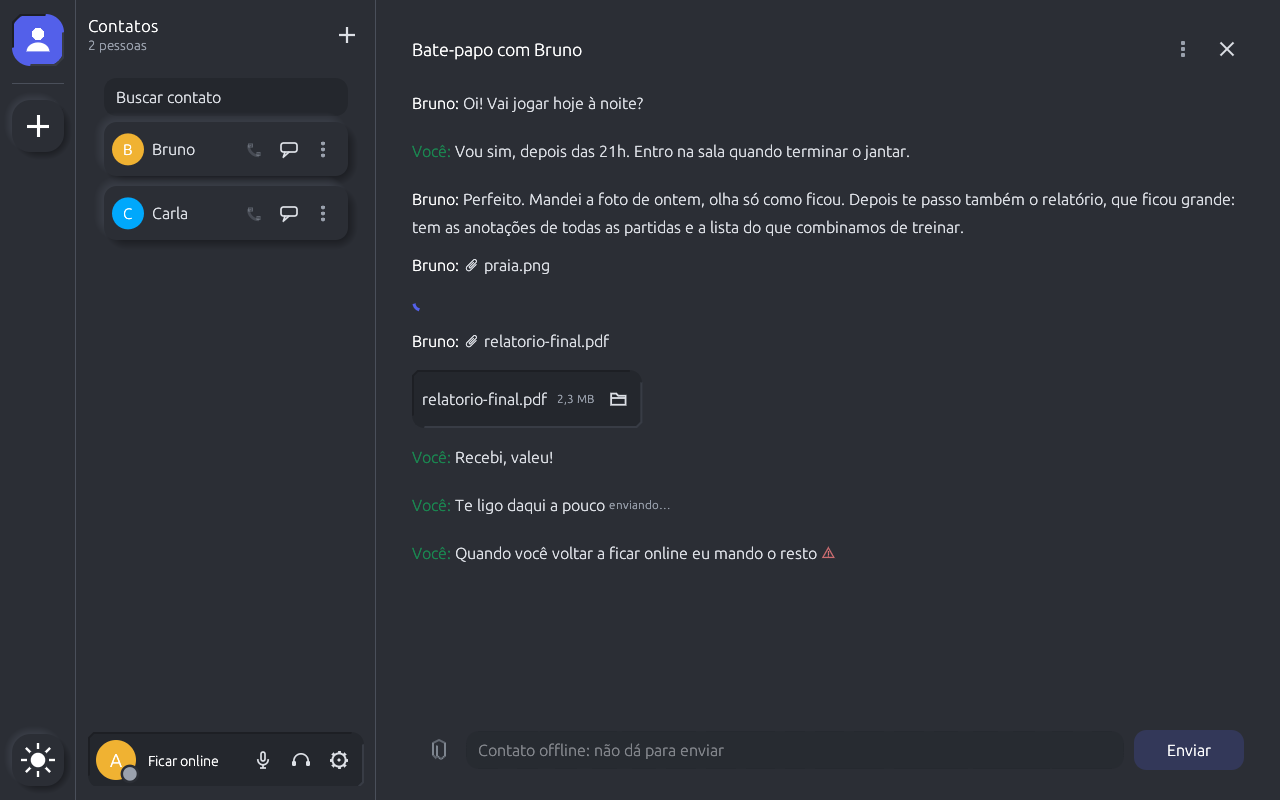
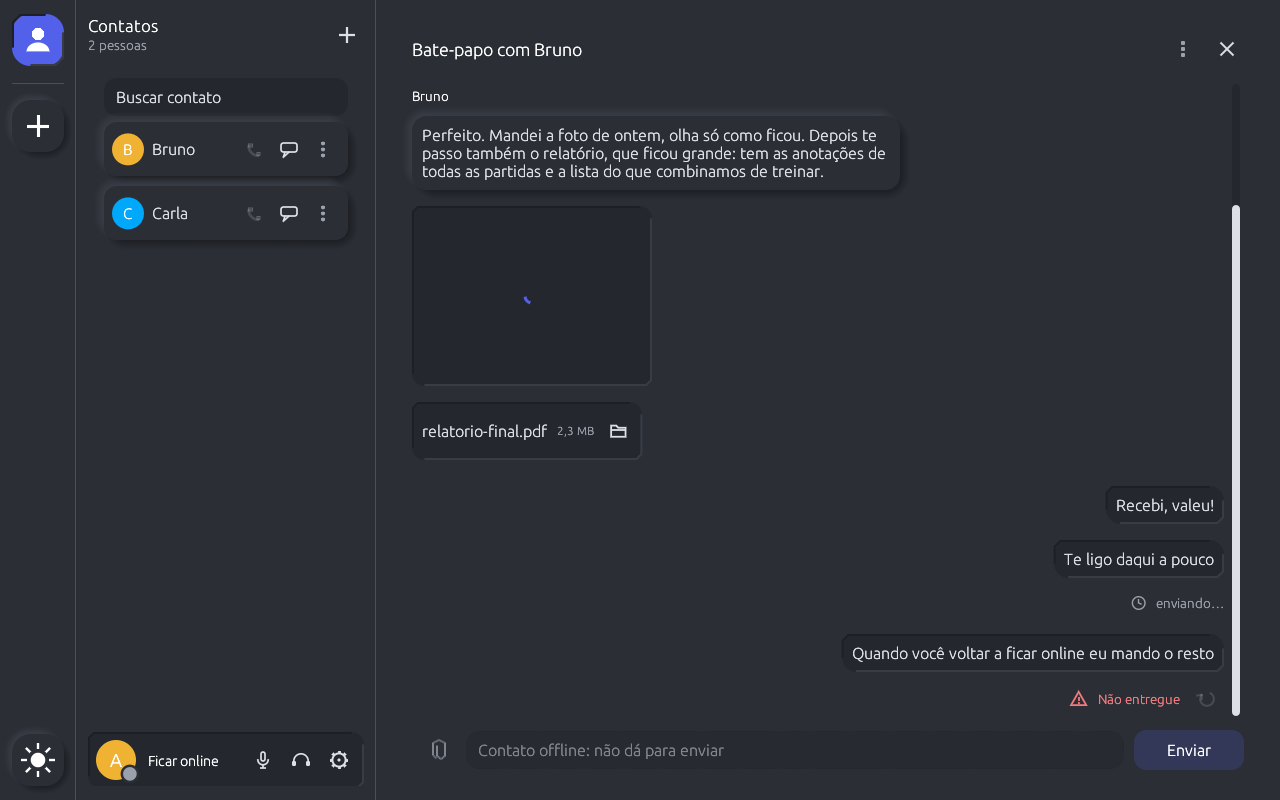
Bate-papo com forma: minha fala à direita e afundada, a do contato em relevo, sequência por autor, anexo sem linha repetida, miniatura com espaço reservado e falha de envio com saída
Verde de "ao vivo/ok" não serve de autoria (e não passa de AA no escuro): o lado e o relevo dizem quem falou.
Mensagem que falhou ganha aviso legível e "Enviar de novo", que descarta a cópia falha.

diff --git a/examples/gui/conversa.rs b/examples/gui/conversa.rs
@@ -6,6 +6,22 @@ use eframe::egui::{self, RichText, vec2};
 
 use crate::{arquivos::{Phase, size_text}, chats::State, engine::*, theme::*, ui::*};
 
+/// Largura máxima do balão (pt), perto de 70 caracteres: linha mais longa cansa a leitura.
+const BUBBLE_MAX: f32 = 520.0;
+/// Espaço entre mensagens seguidas do mesmo autor e entre autores (pt).
+const MSG_GAP: f32 = 6.0;
+const RUN_GAP: f32 = 16.0;
+
+/// Balão da mensagem. Minha fala fica à direita e afundada; a do contato, à esquerda e em relevo. O lado e a forma
+/// dizem quem falou sem depender de cor.
+fn bubble(ui: &mut egui::Ui, mine: bool, add: impl FnOnce(&mut egui::Ui)) {
+    let side = if mine { egui::Align::Max } else { egui::Align::Min };
+    ui.with_layout(egui::Layout::top_down(side), |ui| {
+        ui.set_max_width(ui.available_width().min(BUBBLE_MAX));
+        if mine { sunken_frame(ui, 14, 10, add) } else { raised_frame(ui, 14, 10, add) };
+    });
+}
+
 impl App {
     /// A conversa com `peer`. `online`: o contato está de pé agora (ou em chamada comigo), então dá para enviar.
     pub(crate) fn chat_panel(&mut self, ui: &mut egui::Ui, peer: [u8; 32], online: bool) {
@@ -24,6 +40,7 @@ impl App {
         }
         let xfers = self.shared.transfers.lock_unpoisoned().of(&peer);
         let mut file_cmds: Vec<Cmd> = Vec::new();
+        let mut retry: Option<(Vec<u64>, String)> = None;
         // Sem cartão, como o bate-papo da sala: título, mensagens até o pé da janela e a linha de envio embaixo.
         ui.add_space(4.0);
         ui.scope(|ui| {
@@ -58,9 +75,12 @@ impl App {
                 if msgs.is_empty() {
                     note(ui, "Sem mensagens ainda.");
                 }
+                // Cada autor fala em seu lado; mensagens seguidas do mesmo autor formam uma sequência com o nome uma vez só.
+                let mut prev: Option<bool> = None;
                 for g in crate::chats::groups(&msgs) {
                     let parts = msgs.get(g).unwrap_or_default();
                     let Some(m) = parts.first() else { continue };
+                    let mine = m.mine();
                     // Pedaços de um texto longo aparecem como uma mensagem só; o estado é o pior entre eles.
                     let text: String = parts.iter().map(|p| p.text.as_str()).collect();
                     let state = if parts.iter().any(|p| p.state == State::Failed) {
@@ -70,31 +90,54 @@ impl App {
                     } else {
                         m.state
                     };
-                    ui.horizontal_wrapped(|ui| {
-                        ui.spacing_mut().item_spacing.x = 4.0;
-                        let (who, color) = if m.mine() { ("Você", pal().green) } else { (name.as_str(), pal().strong) };
-                        ui.label(RichText::new(format!("{who}:")).strong().color(color));
-                        ui.label(RichText::new(text).color(pal().text));
-                        if let Some(x) = xfers.iter().find(|x| x.id == m.id && x.mine == m.mine() && x.phase.live()) {
-                            file_progress(ui, x, &mut file_cmds);
-                            return;
-                        }
-                        match state {
-                            State::Sending => ui.label(RichText::new("enviando…").size(12.0).color(pal().muted)),
-                            State::Failed => {
-                                // Discreto: um triângulo pequeno no tom do erro, sem texto; o motivo fica no hover.
-                                let (rect, r) = ui.allocate_exact_size(vec2(14.0, 14.0), egui::Sense::hover());
-                                r.widget_info(|| egui::WidgetInfo::labeled(egui::WidgetType::Label, true, "Não entregue"));
-                                alert_icon(ui.painter(), rect.center(), 13.0, pal().error.gamma_multiply(0.8));
-                                r.on_hover_text("Não entregue: o contato não confirmou, estava offline ou sem rota. Não há caixa de correio; envie de novo quando ele voltar.")
-                            }
-                            State::Sent | State::Received => ui.label(""),
-                        };
-                    });
+                    let side = if mine { egui::Align::Max } else { egui::Align::Min };
+                    let new_run = prev != Some(mine);
+                    if prev.is_some() {
+                        ui.add_space(if new_run { RUN_GAP } else { MSG_GAP });
+                    }
+                    prev = Some(mine);
+                    if new_run && !mine {
+                        ui.label(RichText::new(name.as_str()).size(13.0).strong().color(pal().strong));
+                        ui.add_space(2.0);
+                    }
+                    let live = xfers.iter().find(|x| x.id == m.id && x.mine == mine && x.phase.live());
                     // Imagem à vista, vídeo com play e cartão com baixar, quando o arquivo já está no disco.
-                    if let Some(x) = xfers.iter().find(|x| x.id == m.id && x.mine == m.mine() && x.media_path().is_some())
-                    {
-                        crate::midia::show(ui, x);
+                    let media = xfers.iter().find(|x| x.id == m.id && x.mine == mine && x.media_path().is_some());
+                    // A linha "📎 nome" do histórico é só o rastro do anexo: com o cartão ou a imagem à vista, repeti-la é ruído.
+                    let trace = text.starts_with("📎 ") && media.is_some();
+                    if !trace {
+                        bubble(ui, mine, |ui| {
+                            ui.label(RichText::new(text.as_str()).color(pal().text));
+                            if let Some(x) = live {
+                                ui.horizontal(|ui| file_progress(ui, x, &mut file_cmds));
+                            }
+                        });
+                    }
+                    if let Some(x) = media {
+                        ui.add_space(if trace { 0.0 } else { MSG_GAP });
+                        ui.with_layout(egui::Layout::top_down(side), |ui| crate::midia::show(ui, x));
+                    }
+                    if live.is_none() && mine && matches!(state, State::Sending | State::Failed) {
+                        ui.allocate_ui_with_layout(vec2(ui.available_width(), 30.0), egui::Layout::right_to_left(egui::Align::Center), |ui| {
+                            if state == State::Sending {
+                                ui.label(RichText::new("enviando…").size(13.0).color(pal().muted));
+                                let (rect, _) = ui.allocate_exact_size(vec2(14.0, 14.0), egui::Sense::hover());
+                                clock_icon(ui.painter(), rect.center(), 14.0, pal().muted);
+                            } else {
+                                // Falha à vista e com saída: o motivo escrito, o aviso desenhado e o botão de tentar de novo.
+                                let again = ui.add_enabled_ui(sendable, |ui| {
+                                    glyph_button(ui, "Enviar de novo", "Enviar de novo: tira esta mensagem e manda o texto outra vez. Só com o contato online", Some(pal().error), retry_icon)
+                                });
+                                if again.inner.clicked() {
+                                    retry = Some((parts.iter().map(|p| p.id).collect(), text.clone()));
+                                }
+                                let why = "Não entregue: o contato não confirmou, estava offline ou sem rota. Não há caixa de correio; envie de novo quando ele voltar.";
+                                ui.add(egui::Label::new(RichText::new("Não entregue").size(13.0).color(pal().error)).selectable(false).sense(egui::Sense::hover())).on_hover_text(why);
+                                let (rect, r) = ui.allocate_exact_size(vec2(18.0, 18.0), egui::Sense::hover());
+                                r.widget_info(|| egui::WidgetInfo::labeled(egui::WidgetType::Label, true, "Não entregue"));
+                                alert_icon(ui.painter(), rect.center(), 18.0, pal().error);
+                            }
+                        });
                     }
                 }
             });
@@ -137,6 +180,11 @@ impl App {
             for c in file_cmds {
                 let _ = r.cmds.send(c);
             }
+        }
+        // Reenviar tira a mensagem que falhou e manda o texto de novo: a conversa não fica com duas cópias.
+        if let (Some((ids, text)), Some(r)) = (retry, &self.running) {
+            self.shared.chats.lock_unpoisoned().discard(&peer, &ids);
+            let _ = r.cmds.send(Cmd::Chat(peer, text));
         }
         if erase {
             self.erase_chat(peer);

diff --git a/examples/gui/chats.rs b/examples/gui/chats.rs
@@ -85,6 +85,15 @@ impl ChatBook {
         }
     }
 
+    /// Tira as mensagens minhas `ids` da conversa (reenvio de uma que falhou).
+    pub(crate) fn discard(&mut self, peer: &[u8; 32], ids: &[u64]) {
+        if let Some(v) = self.chats.get_mut(peer) {
+            let before = v.len();
+            v.retain(|m| !(m.mine() && ids.contains(&m.id)));
+            self.dirty |= v.len() != before;
+        }
+    }
+
     /// Mensagem minha, a caminho.
     pub(crate) fn push_mine(&mut self, peer: [u8; 32], id: u64, text: String) {
         self.push(peer, Msg { id, text, state: State::Sending });
@@ -220,6 +229,22 @@ mod tests {
         assert!(!saved.contains(&hex(&a)) && saved.contains(&hex(&b)));
         book.forget(&a);
         assert!(book.take_dirty().is_none(), "sem conversa, nada a gravar");
+    }
+
+    #[test]
+    fn discarding_removes_only_my_messages_with_those_ids() {
+        let a = [1u8; 32];
+        let mut book = ChatBook::default();
+        book.push_mine(a, 5, "falhou".into());
+        book.push_received(a, 5, "do contato, mesmo id".into());
+        book.push_mine(a, 9, "fica".into());
+        book.take_dirty();
+        book.discard(&a, &[5]);
+        let left: Vec<_> = book.with(&a).iter().map(|m| m.text.as_str()).collect();
+        assert_eq!(left, ["do contato, mesmo id", "fica"]);
+        assert!(book.take_dirty().is_some(), "a remoção precisa chegar ao arquivo");
+        book.discard(&a, &[5]);
+        assert!(book.take_dirty().is_none(), "nada mudou, nada a gravar");
     }
 
     #[test]

diff --git a/examples/gui/theme.rs b/examples/gui/theme.rs
@@ -939,6 +939,23 @@ pub(crate) fn alert_icon(painter: &egui::Painter, center: Pos2, size: f32, color
     painter.circle_filled(u(0.0, 0.22), size * 0.05, color);
 }
 
+/// Seta circular (tentar de novo), desenhada: arco aberto no alto à direita com a ponta da seta.
+pub(crate) fn retry_icon(painter: &egui::Painter, center: Pos2, size: f32, color: Color32) {
+    let r = size * 0.34;
+    let ink = Stroke::new((size * 0.1).max(1.5), color);
+    // Do ângulo -60° (alto à direita) dando a volta por 280°, no sentido horário da tela.
+    let (start, sweep) = (-60.0_f32.to_radians(), 280.0_f32.to_radians());
+    let pts: Vec<Pos2> = (0..=24).map(|i| { let a = start + sweep * i as f32 / 24.0; center + vec2(a.cos(), a.sin()) * r }).collect();
+    let tip = pts.last().copied().unwrap_or(center);
+    painter.add(Shape::line(pts, ink));
+    // A ponta fecha o arco: dois traços saindo do fim.
+    let a = start + sweep;
+    let dir = vec2(-a.sin(), a.cos());
+    let side = vec2(a.cos(), a.sin());
+    painter.line_segment([tip, tip - dir * size * 0.2 + side * size * 0.16], ink);
+    painter.line_segment([tip, tip - dir * size * 0.2 - side * size * 0.16], ink);
+}
+
 /// Botão só com um ícone desenhado, sem moldura (lista de contatos, painel do usuário). `draw` pinta o ícone;
 /// `name` é o que o leitor de tela diz e `tip`, o hover; `color` fixa a tinta (sem ela: texto, e forte ao passar o mouse). Num
 /// `Ui` desligado o ícone apaga e não clica.

diff --git a/examples/gui/midia.rs b/examples/gui/midia.rs
@@ -215,7 +215,10 @@ fn image_block(ui: &mut egui::Ui, name: &str, path: &Path, key: Key) {
             }
         }
         Slot::Loading => {
-            ui.add(egui::Spinner::new().size(18.0).color(BLURPLE));
+            // Reserva o espaço da miniatura (4:3, a proporção mais comum) para a conversa não pular ao carregar.
+            let (rect, _) = ui.allocate_exact_size(vec2(SHOWN, SHOWN * 0.75), Sense::hover());
+            sunken(ui.painter(), rect, 12, pal().deep);
+            ui.put(egui::Rect::from_center_size(rect.center(), vec2(18.0, 18.0)), egui::Spinner::new().size(18.0).color(BLURPLE));
         }
         Slot::Failed => file_card(ui, name, 0, path, key),
     }

diff --git a/docs/GUI.md b/docs/GUI.md
@@ -90,7 +90,7 @@ Se nada chega por 8 s (a rede caiu ou mudou de Wi-Fi), a GUI dá a chamada como 
 
 **Quem recebe atende.** Uma chamada 1:1 de contato não conecta sozinha: toca ao lado do nome (cartão *Chamada recebida* na aba Chamada e a barra do pé da coluna, com 📞 para atender e o botão vermelho com o fone deitado, do mesmo tamanho, para recusar) até a pessoa responder ou passar 30 s, e só então o áudio e a tela abrem. Enquanto toca, outras chamadas são recusadas. Limite conhecido: se a linha cai e quem ligou religa sozinho, quem recebe precisa atender de novo. Entrar numa sala atende a malha sem tocar (é a mesma sala). Ao ligar, a subseção mostra "Chamando…" (sem o monitor) até a pessoa atender; o botão vermelho do fone cancela. O 📞 do contato só habilita com o contato online: o nó sonda cada contato da lista (um circuito por vez, a cada 60 s; `Dialer::is_online`) e um servidor em comum que o mostra online também vale. Antes da primeira sondagem o botão espera ("Verificando…"). Em chamada 1:1 (fora de sala), a mesma subseção da sala aparece acima do perfil: 📞 com o nome do contato e o estado ("Em chamada"; a qualidade da linha fica só na aba da chamada), o monitor que compartilha a sua tela e o botão vermelho do fone que desliga. Não existe mais o botão vermelho grande no perfil; o desligar do cartão "Em chamada" é o mesmo botão.
 
-**Bate-papo 1:1.** O 💬 do contato abre a conversa no centro (aba Chamada), com ou sem chamada; em chamada ela aparece sob o cartão da chamada, com quem está na linha. Só dá para enviar com o contato online (a mesma sondagem do 📞); offline, o campo fica desabilitado e o histórico continua à vista. A mensagem que o contato não confirmou fica marcada com um pequeno triângulo de aviso, sem texto; o hover diz "não entregue" (não há caixa de correio). O histórico é guardado nos dois lados, cada um na sua máquina (`.clam-gui.chats`), e **remover o contato apaga a conversa dos dois lados** (no outro, quando o aviso de remoção chega). Veja [CHAMADAS.md](CHAMADAS.md#bate-papo-11-mediaupdate-etiqueta-13).
+**Bate-papo 1:1.** O 💬 do contato abre a conversa no centro (aba Chamada), com ou sem chamada; em chamada ela aparece sob o cartão da chamada, com quem está na linha. Só dá para enviar com o contato online (a mesma sondagem do 📞); offline, o campo fica desabilitado e o histórico continua à vista. Cada um fala no seu lado: a minha fala fica à direita num balão afundado, a do contato à esquerda num balão em relevo, então quem falou não depende de cor (o verde fica só para "ao vivo/ok"). Mensagens seguidas do mesmo autor formam uma sequência (6 px entre elas, 16 px entre autores) e o nome do contato aparece uma vez no alto dela; o balão tem no máximo 520 pt (~70 caracteres por linha). O anexo entregue aparece sozinho (imagem, vídeo ou cartão), sem repetir a linha "📎 nome" do histórico, e a miniatura reserva o espaço (4:3) enquanto decodifica, para a conversa não pular. Minha mensagem a caminho mostra o relógio e "enviando…"; a que o contato não confirmou mostra, sob o balão, o aviso desenhado, "Não entregue" (o hover explica: não há caixa de correio) e o botão **Enviar de novo**, ativo só com o contato online: ele tira a mensagem que falhou e manda o texto outra vez (`ChatBook::discard`), sem deixar duas cópias. O histórico é guardado nos dois lados, cada um na sua máquina (`.clam-gui.chats`), e **remover o contato apaga a conversa dos dois lados** (no outro, quando o aviso de remoção chega). Veja [CHAMADAS.md](CHAMADAS.md#bate-papo-11-mediaupdate-etiqueta-13).
 
 **Arquivos.** Na conversa, o clipe (desenhado) ao lado do campo abre o seletor de arquivos do sistema (portal no Linux, diálogo nativo no Windows e macOS); soltar um arquivo na janela faz o mesmo. O arquivo **não sai na hora**: fica numa etiqueta (nome, tamanho e um X para desistir) acima do campo e só é enviado quando você clica em Enviar ou aperta Enter (com ou sem texto junto; os arquivos saem antes do texto). Só com o contato online. O que sai é um **pedido de arquivo**. Quem recebe vê a mensagem "📎 nome · tamanho" com o ícone de **baixar** e um X para recusar, e o arquivo **não está neste computador** até o clique. Mesmo depois de recebido ele é **temporário**: fica em `~/.clam-gui.recebidos` e é apagado quando o programa fecha (e, se o fechamento foi brusco, na abertura seguinte), a menos que você o **baixe** (veja "Imagens e vídeos"). Só descem sozinhos as imagens e os vídeos de até 50 MB; qualquer outro arquivo (ou maior) espera o clique. A opção "Baixar todo arquivo recebido até 100 MB" (Configurações, desligada de início) faz tudo de até 100 MB descer sozinho. Quem envia vê um ícone de carregando ("esperando o contato…" e depois a porcentagem) e o X de **cancelar**; **os dois lados cancelam**: quem envia pelo X de cancelar (o parcial de quem recebe é apagado), e quem recebe pelo X ao lado da porcentagem enquanto baixa (o parcial é apagado e o envio do contato para). O cancelamento vale no meio do envio, em até ~100 ms (não há faixa de status acima das mensagens). Sem o contato online o clipe fica desabilitado; um envio que não termina fica como "não entregue". Limite de 100 MB. Enquanto o arquivo anda, o circuito usa o ritmo de tela, e um observador da rede vê uma rajada constante (veja [CHAMADAS.md](CHAMADAS.md#arquivos-no-bate-papo-11-mediaupdate-etiqueta-14-transfer)).
 **Imagens e vídeos.** Na conversa, uma imagem (`png`, `jpg`, `gif`, `webp`) já entregue aparece à vista, em miniatura de até 240 pt, e um vídeo (`mp4`, `webm`, `mkv`, `mov`, `avi`, `m4v`) vira um quadro com o botão de play desenhado. Clicar na imagem a abre em **tela cheia** (Esc, clique fora ou o X do canto fecham); clicar no vídeo o abre no player padrão do sistema (`xdg-open`, `open`, `explorer`), porque o programa não decodifica vídeo, então não há tela cheia própria para ele. No canto de toda imagem e vídeo há um ícone de **baixar** (e o mesmo ícone em qualquer outro arquivo, que aparece como um cartão com nome e tamanho): é o **baixar** no arquivo recebido ainda temporário: **sem perguntar nada**, leva o arquivo para a **pasta de baixados** e é só isso que o livra do apagamento (a dica do ícone avisa). A pasta se escolhe em Configurações ("Pasta de baixados"): `Documents/clam` (padrão), `Downloads/clam`, `Desktop/clam` ou "Outra pasta…" (um lugar dentro de `~/.clam-gui.recebidos` é recusado, porque lá tudo some). Cada conversa tem a **sua subpasta** dentro dela (`Nome (6 primeiros dígitos da chave)`; um contato que muda de nome segue na mesma pasta). Falha ao baixar (disco cheio, pasta sem permissão) aparece em Atividade e o arquivo continua entre os recebidos. Depois de baixado (e no que **você enviou**) o mesmo ícone vira uma **pasta** desenhada, que abre o gerenciador de arquivos no arquivo (no Linux abre a pasta dele: `xdg-open` não seleciona). O arquivo que você enviou é o original e nunca é movido nem apagado. Os baixados ficam registrados em `~/.clam-gui.baixados` (`0600`, uma linha por arquivo): ao fechar e abrir o programa o arquivo reaparece na conversa, no mesmo lugar; o que foi apagado ou movido do disco por fora fica de fora. A tela cheia mostra a imagem em até 2400 px e, ao baixar por ela, fecha (a conversa mostra o arquivo no lugar novo). O enviado só aparece nesta sessão: o histórico guarda o texto "📎 nome", não o caminho, e as 20 últimas transferências são as que têm miniatura; os baixados não entram nesse limite. A imagem é decodificada fora da janela, com teto de 256 MiB de memória; uma imagem que não abre mostra um aviso curto. A miniatura do GIF é o primeiro quadro. Na sala vale o mesmo: a imagem aparece à vista, o vídeo tem o play e há o ícone de baixar sob a linha "📎 nome" (veja "Arquivos na sala").

diff --git a/docs/CHAMADAS.md b/docs/CHAMADAS.md
@@ -135,7 +135,7 @@ A tela anda num **circuito só dela**, aberto por quem transmite até o telefone
 ### Bate-papo 1:1 (`media::update`, etiqueta 13)
 
 Mensagem de texto entre dois contatos, com ou sem chamada. Segue o molde da remoção de contato: um quadro de 200 bytes (o tamanho dos demais, então nada muda para quem observa) cifrado com a chave do par (ChaCha20-Poly1305, HKDF do DH entre as chaves estáticas, autor em claro), com o carimbo `id` (ms Unix, sempre crescente em quem envia) e até `MAX_CHAT` = 128 bytes de texto, sem caractere de controle. `Dialer::send_chat` entrega por circuito de 2 saltos (`deliver_confirmed`) e só devolve `true` quando o contato abre e confirma (etiqueta 5, repetindo o `id`); uma tentativa só. O telefone do outro lado (`Phone::take_chats`) só aceita de chave que é contato, limita a taxa e descarta repetida (`SeenChats`); o nó entrega a fila por `Node::take_chats`.
-- **Só online.** Não há caixa de correio nem custódia para bate-papo: contato offline não recebe, e a GUI desabilita o envio e marca a mensagem com um pequeno triângulo de aviso ("não entregue" no hover) se a confirmação não vem. Quem volta não vê o que foi escrito enquanto estava fora.
+- **Só online.** Não há caixa de correio nem custódia para bate-papo: contato offline não recebe, e a GUI desabilita o envio e marca a mensagem como "Não entregue", com botão de enviar de novo (só com o contato online), se a confirmação não vem. Quem volta não vê o que foi escrito enquanto estava fora.
 - **Texto longo** é partido pela GUI em pedaços de até 128 bytes (sem cortar caractere), enviados em ordem. O espaço da quebra fica no fim do pedaço, então concatenar os pedaços devolve o texto. Na tela (`chats::groups`) as mensagens seguidas do mesmo autor com `id` consecutivo (a rajada de `Dialer::next_chat_id`) aparecem como **uma só**, com o estado do pior pedaço; no histórico e no fio seguem sendo mensagens separadas. Limite: duas mensagens digitadas no mesmo milissegundo se juntariam, o que a mão humana não faz; texto longo de versão antiga, que cortava o espaço, aparece com os pedaços colados sem espaço.
 - **Histórico** em cada máquina (`~/.clam-gui.chats`, modo `0600`, texto puro, até 500 mensagens por contato). Não é sincronizado: cada lado guarda a sua cópia, e o que falhou fica só em quem enviou. **Remover o contato apaga a conversa dos dois lados**: quem remove apaga a sua cópia na hora (memória e arquivo, mesmo com o nó desligado) e fecha o bate-papo se estava aberto; quem foi removido apaga a dele quando o aviso de remoção chega (o mesmo aviso que o tira da lista, com insistência até a confirmação). Limite: se o outro lado está offline ou usa uma versão antiga que ignora o aviso, a cópia dele só some quando o aviso for entregue; o programa não consegue apagar à força o que está na máquina de outra pessoa. Bloquear sem remover não apaga.
 - O quadro não tem sigilo de encaminhamento além do que o resto dos quadros de atualização têm (veja [SEGURANCA.md](SEGURANCA.md)).
